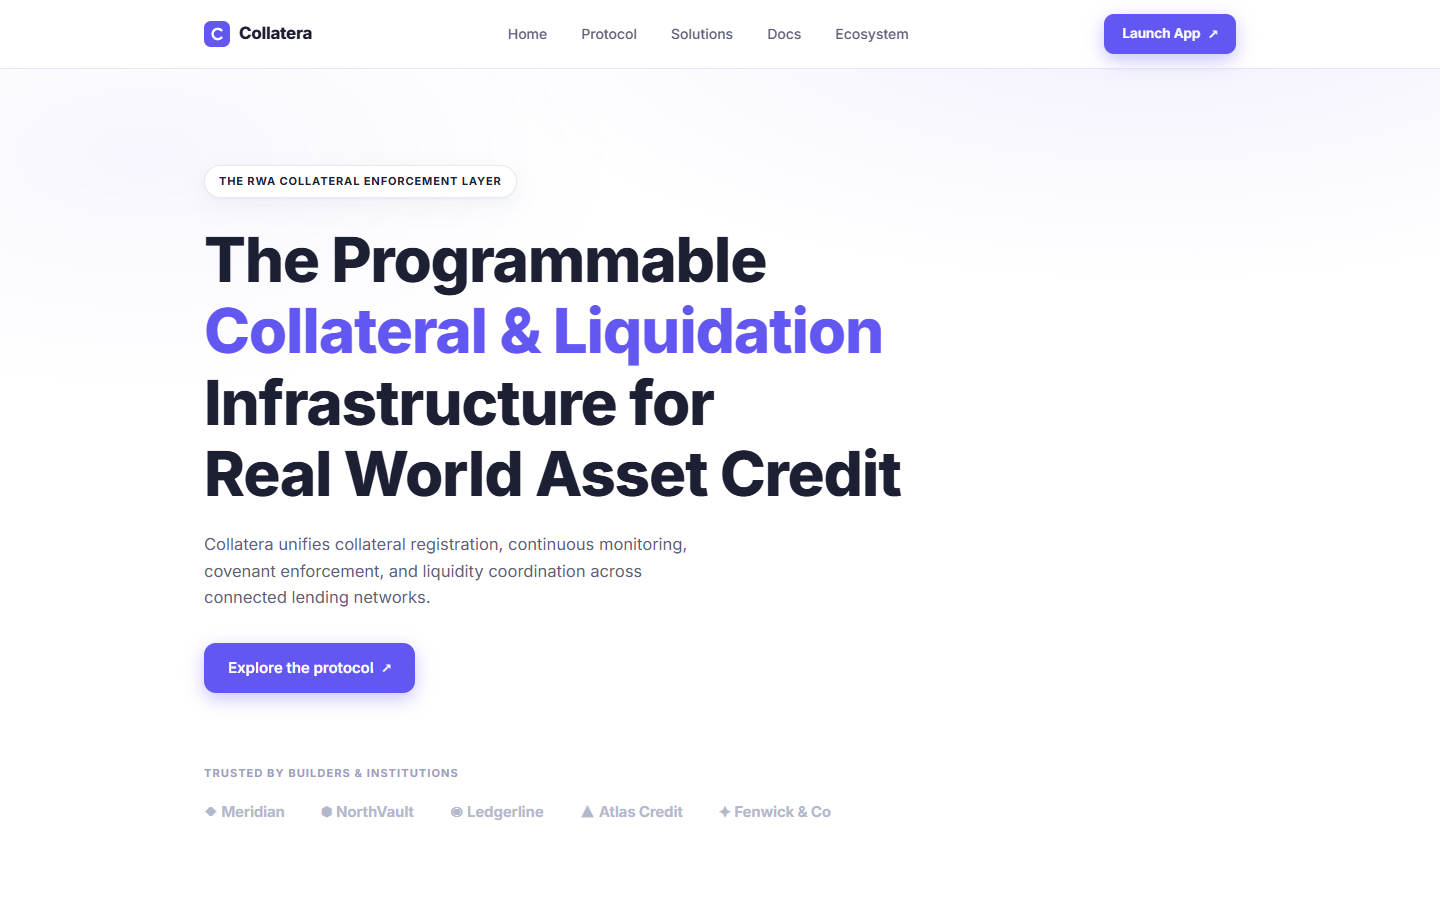
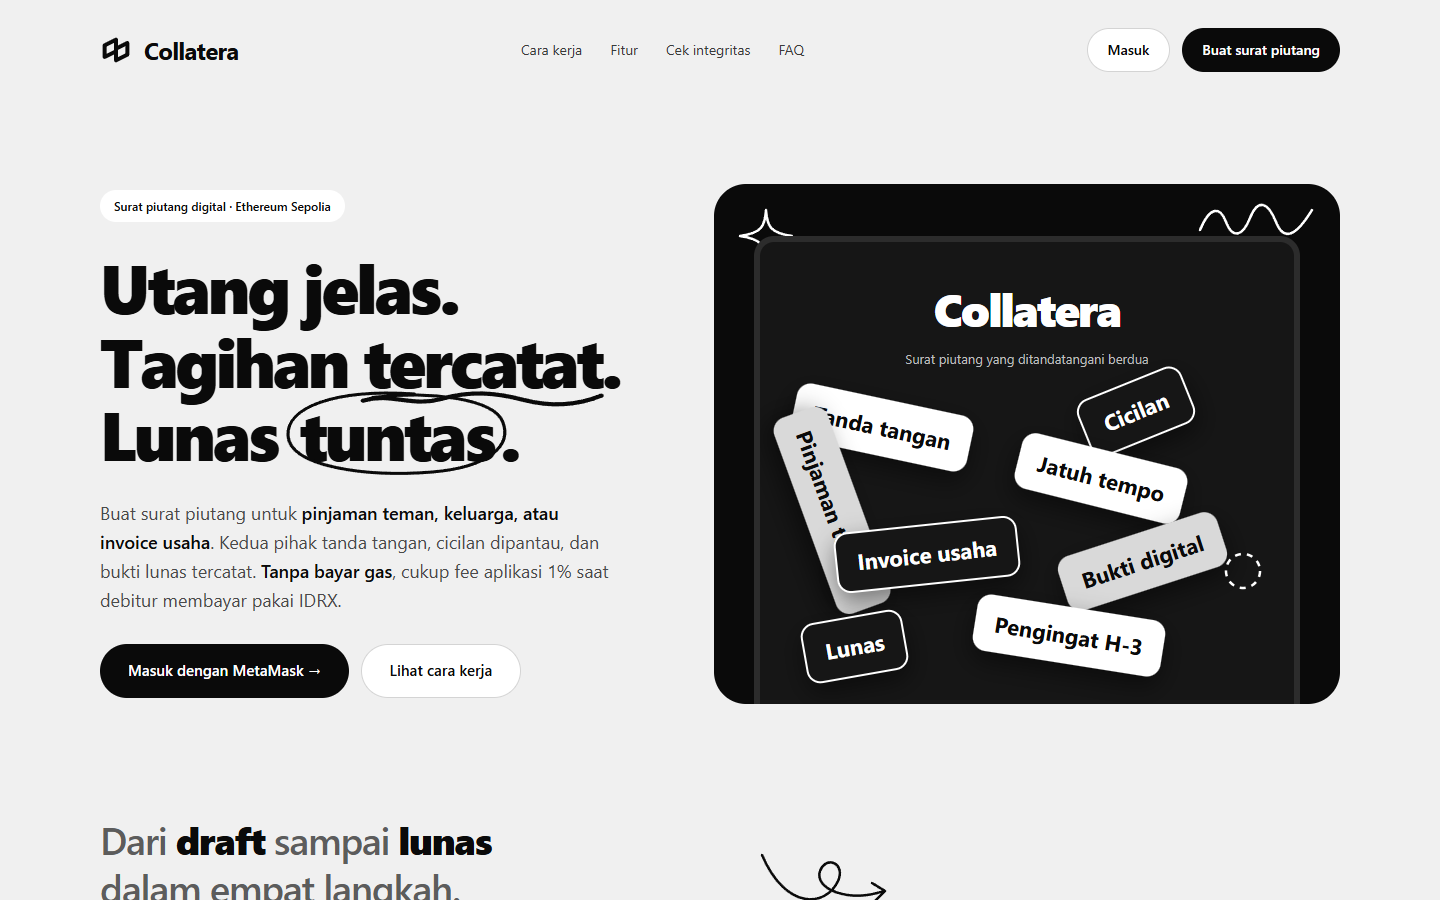
Show the real Collatera and escrow sites
The Collatera and escrow entries linked to and showed screenshots of
other people's sites, guessed from similar URLs. Both now use the
homepage URLs from their GitHub repos, the escrow entry uses its real
name, and its screenshots come from the app's own demo mode.

diff --git a/content/site.ts b/content/site.ts
@@ -179,17 +179,17 @@ export const collatera: Project = {
   role: "Full-stack engineer",
   team: "Hackathon team of five",
   stack: ["Next.js", "Prisma", "Solidity", "Hardhat", "ethers v6", "Ethereum Sepolia"],
-  url: "https://collatera.vercel.app",
+  url: "https://collatera-app.vercel.app",
   shots: [
-    { src: "/work/collatera/hero.png", alt: "Collatera landing page for collateral and liquidation infrastructure", width: 1440, height: 900 },
-    { src: "/work/collatera/cycle.png", alt: "The collateral cycle: register and finance steps with interface previews", width: 1440, height: 900 },
-    { src: "/work/collatera/monitor.png", alt: "Monitor and enforce steps with a collateral health chart", width: 1440, height: 900 },
+    { src: "/work/collatera/hero.png", alt: "Collatera landing page: Utang jelas. Tagihan tercatat. Lunas tuntas.", width: 1440, height: 900 },
+    { src: "/work/collatera/flow.png", alt: "How a note goes from draft to signed to paid, in four steps", width: 1440, height: 900 },
+    { src: "/work/collatera/detail.png", alt: "The integrity check that catches data changed off-chain", width: 1440, height: 900 },
   ],
 };
 
 export const aegisescrow: Project = {
-  slug: "aegisescrow",
-  name: "AegisEscrow",
+  slug: "escrow",
+  name: "Freelance Escrow",
   kind: "University project",
   when: "Sep to Oct 2026",
   summary: "Freelance payments held by a smart contract: money unlocks per milestone, and a silent client cannot hold it hostage.",
@@ -202,11 +202,11 @@ export const aegisescrow: Project = {
   role: "Full-stack engineer",
   team: "BINUS Prototyping Blockchain course, team of five",
   stack: ["Solidity 0.8.28", "Hardhat 3", "OpenZeppelin", "React", "Vite", "ethers v6", "IPFS"],
-  url: "https://freelance-escrow.vercel.app",
+  url: "https://flescrow.vercel.app",
   shots: [
-    { src: "/work/escrow/hero.png", alt: "AegisEscrow landing page for blockchain freelance escrow", width: 1440, height: 900 },
-    { src: "/work/escrow/features.png", alt: "Trustless vaults, auditing, payout, and mediation features", width: 1440, height: 900 },
-    { src: "/work/escrow/lifecycle.png", alt: "The four-step agreement lifecycle from deposit to payout", width: 1440, height: 900 },
+    { src: "/work/escrow/hero.png", alt: "Freelance Escrow landing page: the money is in the contract before work starts", width: 1440, height: 900 },
+    { src: "/work/escrow/dashboard.png", alt: "Demo dashboard with unfunded, locked, and paid milestones", width: 1440, height: 1040 },
+    { src: "/work/escrow/project.png", alt: "A contract with its milestones, value, and the three parties", width: 1440, height: 900 },
   ],
 };
 
